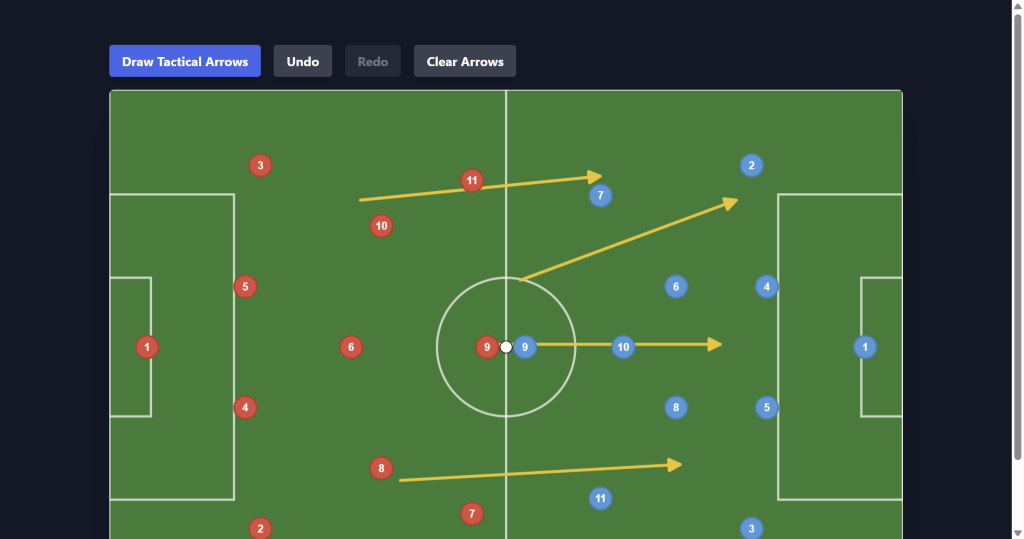
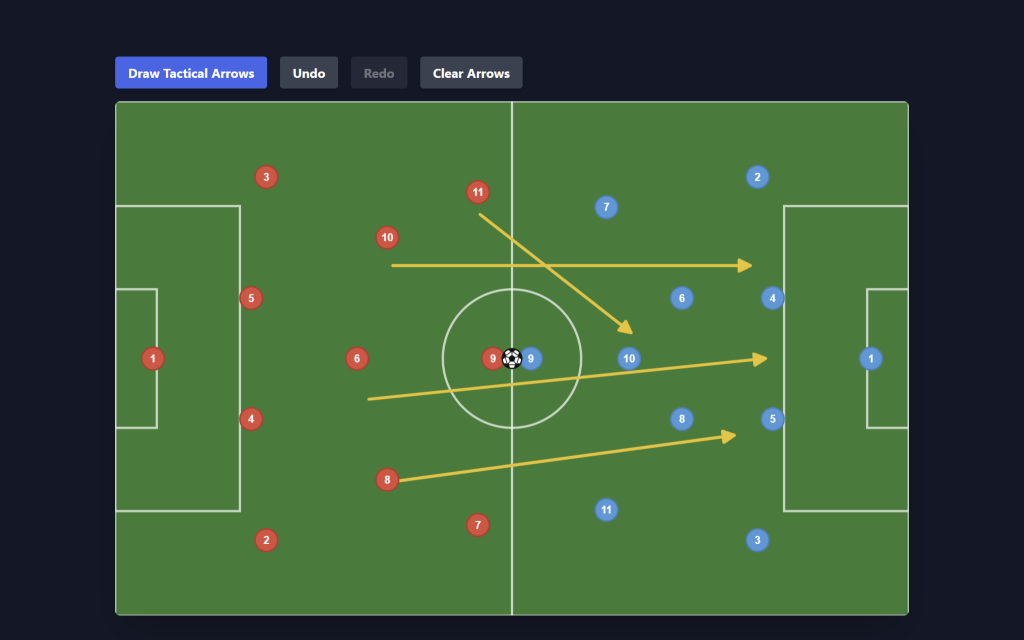
Redesign the ball as a classic black and white football
Draw the ball with a centre pentagon, seams and rim pentagons clipped to the sphere, and enlarge it slightly so the pattern stays readable. Refresh the README screenshot to show the new ball.

diff --git a/src/app/pitch-board/pitch-board.component.ts b/src/app/pitch-board/pitch-board.component.ts
@@ -200,12 +200,56 @@ export class PitchBoardComponent implements AfterViewInit, OnDestroy {
     this.pitchLayer.add(boundary, halfwayLine, centerCircle, leftBox, rightBox, leftGoalArea, rightGoalArea);
   }
 
+  /** Classic black & white football: white sphere, black centre pentagon, surrounding patches. */
+  private addClassicBall(group: Konva.Group, r: number) {
+    group.add(new Konva.Circle({ radius: r, fill: '#ffffff', stroke: '#111111', strokeWidth: 1.5 }));
+
+    // Pattern is clipped to the sphere so outer pentagons are cut by the edge (3D look)
+    const pattern = new Konva.Group({
+      clipFunc: (ctx) => { ctx.arc(0, 0, r, 0, Math.PI * 2, false); }
+    });
+    const black = '#111111';
+    const rad = (deg: number) => deg * Math.PI / 180;
+    const pt = (deg: number, dist: number) => ({ x: Math.cos(rad(deg)) * dist, y: Math.sin(rad(deg)) * dist });
+
+    for (let i = 0; i < 5; i++) {
+      const a = i * 72 - 90;          // direction of a centre-pentagon vertex
+      const next = a + 72;
+      const inner = pt(a, r * 0.38);
+      const outer = pt(a, r * 0.78);
+      const outerNext = pt(next, r * 0.78);
+      const mid = pt(a + 36, r * 0.62);
+
+      // Seam from each centre-pentagon corner out to the outer pentagon
+      pattern.add(new Konva.Line({ points: [inner.x, inner.y, outer.x, outer.y], stroke: black, strokeWidth: 1 }));
+      // Hexagon outline between neighbouring outer pentagons
+      pattern.add(new Konva.Line({
+        points: [outer.x, outer.y, mid.x, mid.y, outerNext.x, outerNext.y],
+        stroke: black, strokeWidth: 1, lineJoin: 'round',
+      }));
+      // Outer pentagon, pushed to the rim and cut by the clip
+      const rim = pt(a, r * 1.02);
+      pattern.add(new Konva.RegularPolygon({
+        x: rim.x, y: rim.y, sides: 5, radius: r * 0.42,
+        rotation: a + 90 + 180, // point toward the centre
+        fill: black,
+      }));
+    }
+
+    // Centre pentagon
+    pattern.add(new Konva.RegularPolygon({ sides: 5, radius: r * 0.38, fill: black }));
+    group.add(pattern);
+
+    // Outline drawn on top so the clipped edge stays crisp
+    group.add(new Konva.Circle({ radius: r, stroke: black, strokeWidth: 1.5 }));
+  }
+
   private drawPlayers() {
     const entities = this.store.entities();
 
     entities.forEach(entity => {
       const isBall = entity.type === 'ball';
-      const radius = isBall ? 8 : 15;
+      const radius = isBall ? 13 : 15;
 
       const group = new Konva.Group({
         id: entity.id,
@@ -222,13 +266,16 @@ export class PitchBoardComponent implements AfterViewInit, OnDestroy {
         }
       });
 
-      const circle = new Konva.Circle({
-        radius: radius,
-        fill: entity.type === 'home' ? '#e74c3c' : entity.type === 'away' ? '#3498db' : '#ffffff',
-        stroke: isBall ? '#000000' : entity.type === 'home' ? '#c0392b' : '#2980b9',
-        strokeWidth: isBall ? 1 : 2,
-      });
-      group.add(circle);
+      if (isBall) {
+        this.addClassicBall(group, radius);
+      } else {
+        group.add(new Konva.Circle({
+          radius: radius,
+          fill: entity.type === 'home' ? '#e74c3c' : '#3498db',
+          stroke: entity.type === 'home' ? '#c0392b' : '#2980b9',
+          strokeWidth: 2,
+        }));
+      }
 
       if (!isBall && entity.label) {
         const text = new Konva.Text({
